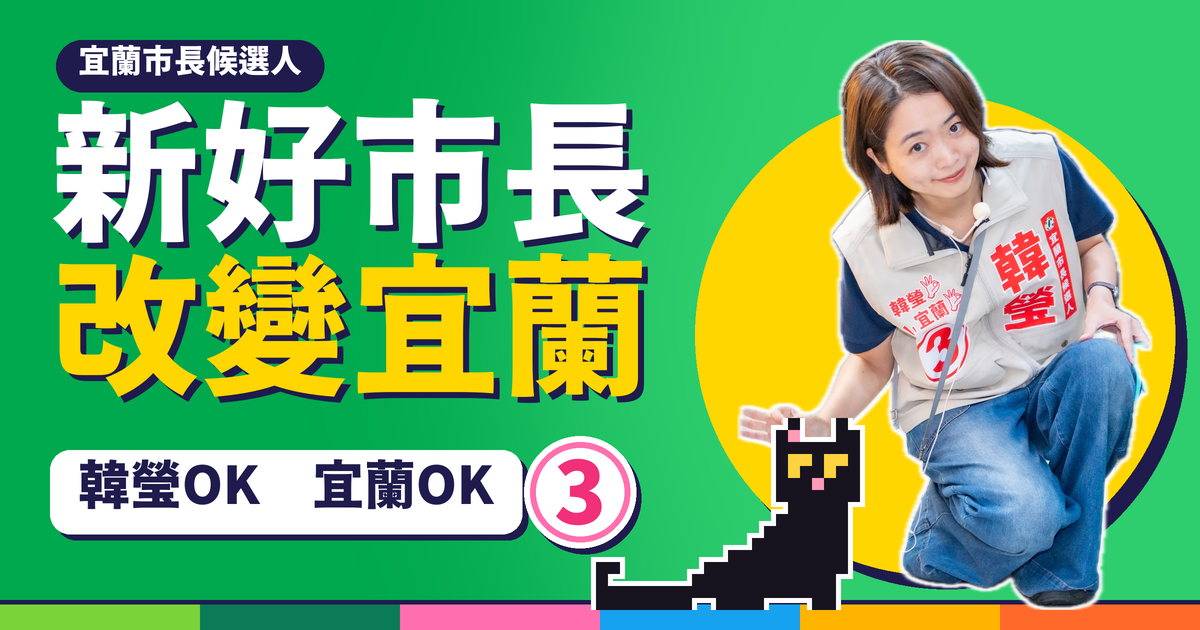
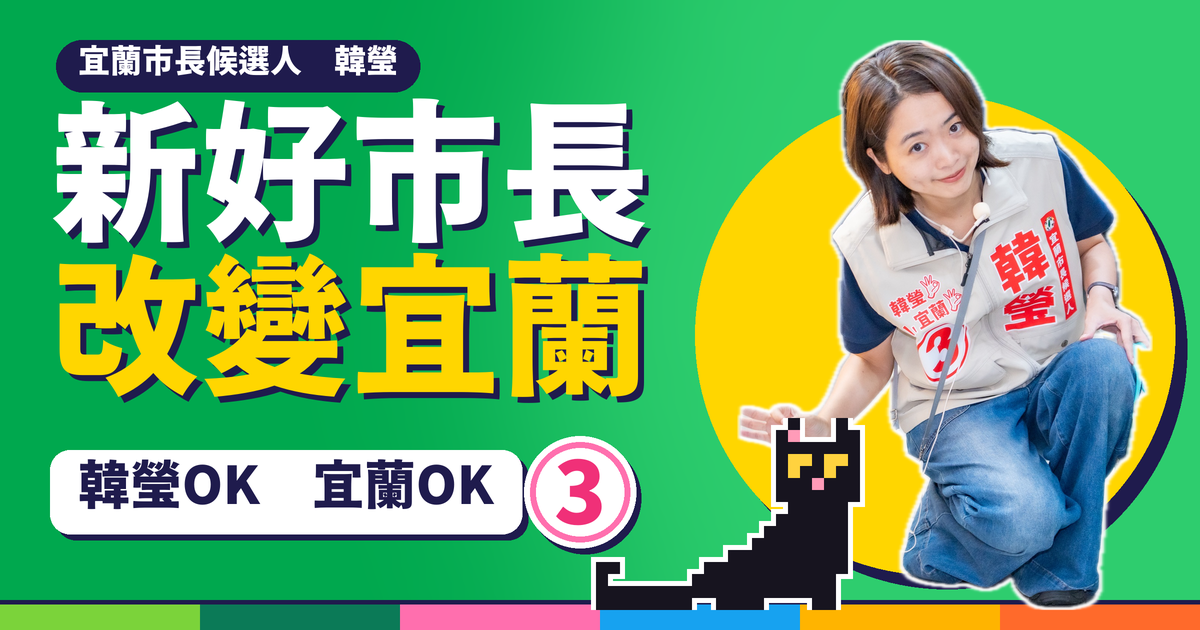
分享預覽圖最上方加上韓瑩

Changed region(s): [[0.2467, 0.0603, 0.37, 0.1508]]

diff --git a/index.html b/index.html
@@ -9,7 +9,7 @@
 <meta property="og:description" content="六新市政、清潔隊改革、福利升級，每項政見都附出處。點一個身分，看跟你有什麼關係。">
 <meta property="og:site_name" content="韓瑩政見一覽">
 <meta property="og:locale" content="zh_TW">
-<meta property="og:image" content="https://hanyingyilan.github.io/og.png?v=5">
+<meta property="og:image" content="https://hanyingyilan.github.io/og.png?v=6">
 <meta property="og:image:type" content="image/png">
 <meta property="og:image:alt" content="韓瑩OK 宜蘭OK：新好市長 改變宜蘭，宜蘭市長候選人韓瑩 3 號">
 <meta property="og:image:width" content="1200">
@@ -17,7 +17,7 @@
 <meta property="og:url" content="https://hanyingyilan.github.io/">
 <meta name="twitter:card" content="summary_large_image">
 <meta name="twitter:title" content="韓瑩政見一覽">
-<meta name="twitter:image" content="https://hanyingyilan.github.io/og.png?v=5">
+<meta name="twitter:image" content="https://hanyingyilan.github.io/og.png?v=6">
 <meta name="description" content="依候選人公布的政見、貼文與新聞整理的宜蘭市長候選人韓瑩政見，用身分、垃圾車與家庭試算互動閱讀。">
 <link rel="preconnect" href="https://fonts.googleapis.com">
 <link rel="preconnect" href="https://fonts.gstatic.com" crossorigin>
